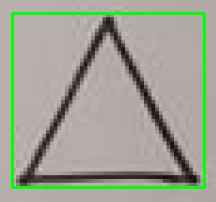
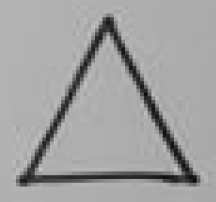
Fixed circle detection

Changed region(s): [[0.0278, 0.0594, 0.9722, 0.9505]]

diff --git a/test/webDetect.py b/test/webDetect.py
@@ -4,9 +4,6 @@ import identifyElement as ie
 
 bInd = 15
 
-#img = cv2.imread('1.jpg')
-#img = cv2.imread('2.jpg')
-img = cv2.imread('web0.jpg')
 
 cntList = []
 
@@ -20,66 +17,80 @@ def insideExistingBox(cnt):
 
 	return False
 
+def main():
+	#img = cv2.imread('1.jpg')
+	#img = cv2.imread('2.jpg')
+	#origImg = cv2.imread('test/web0.jpg')
+	img = cv2.imread('web0.jpg',0)
+	img = imutils.resize(img, width=1400)
+	resImg = cv2.imread('web0.jpg')
+	resImg = imutils.resize(resImg, width=1400)
+	origImg = img.copy()
 
-img = imutils.resize(img, width=1400)
-origImg = img.copy()
+	imgH, imgW = img.shape[0], img.shape[1]
 
-imgH, imgW = img.shape[0], img.shape[1]
+	imgray = img
+	#imgray = cv2.cvtColor(img,cv2.COLOR_BGR2GRAY)
 
-imgray = cv2.cvtColor(img,cv2.COLOR_BGR2GRAY)
+	imgray = cv2.GaussianBlur(imgray,(9,9),0)
+	#imgray = cv2.medianBlur(imgray,3)
 
-imgray = cv2.GaussianBlur(imgray,(9,9),0)
-#imgray = cv2.medianBlur(imgray,3)
+	#ret,thresh = cv2.threshold(imgray,127,255,0)
+	#thresh = cv2.Canny(img,100,300)
+	thresh = cv2.adaptiveThreshold(imgray,255,cv2.ADAPTIVE_THRESH_GAUSSIAN_C,cv2.THRESH_BINARY,11,2)
+	im2, contours, hierarchy = cv2.findContours(thresh,cv2.RETR_TREE,cv2.CHAIN_APPROX_SIMPLE)
 
-#ret,thresh = cv2.threshold(imgray,127,255,0)
-#thresh = cv2.Canny(img,100,300)
-thresh = cv2.adaptiveThreshold(imgray,255,cv2.ADAPTIVE_THRESH_GAUSSIAN_C,cv2.THRESH_BINARY,11,2)
-im2, contours, hierarchy = cv2.findContours(thresh,cv2.RETR_TREE,cv2.CHAIN_APPROX_SIMPLE)
+	contours = sorted(contours, key = cv2.contourArea, reverse = True)[:20]
 
-contours = sorted(contours, key = cv2.contourArea, reverse = True)[:20]
+	elementList = []
+	for cnt in contours:
+		area = cv2.contourArea(cnt)
+		x,y,w,h = cv2.boundingRect(cnt)
+		if area < 100 or (imgH == h and imgW == w):
+			continue
 
+		if insideExistingBox(cnt):
+			continue
 
-for cnt in contours:
-	area = cv2.contourArea(cnt)
-	x,y,w,h = cv2.boundingRect(cnt)
-	if area < 100 or (imgH == h and imgW == w):
-		continue
-
-	if insideExistingBox(cnt):
-		continue
-
-	cntList.append((x,y,w,h))
+		cntList.append((x,y,w,h))
 
 
-	areaDiff = abs(imgW*imgH - (w-x)*(h-y))	
-	
-	if areaDiff > 0.01:
-		cv2.rectangle(img,(x-bInd,y-bInd),(x+w+bInd,y+h+bInd),(0,255,0),2)
-	print ie.getElement(origImg[y-bInd:y+h+bInd, x-bInd:x+w+bInd])
+		areaDiff = abs(imgW*imgH - (w-x)*(h-y))	
+		
+		if areaDiff > 0.01:
+			cv2.rectangle(resImg,(x-bInd,y-bInd),(x+w+bInd,y+h+bInd),(0,255,0),2)
+		element = ie.getElement(origImg[y-bInd:y+h+bInd, x-bInd:x+w+bInd])
+		print element
 
-	pos = None	
-	if h < imgH/4 and y < imgH/4:
-		# Located at the top
-		pos = 'top'
-	elif h > imgH - (imgH/5) and y > imgH - (imgH/5):
-		# Located at the bottom
-		pos = 'bottom'
+		pos = None	
+		if h < imgH/4 and y < imgH/4:
+			# Located at the top
+			pos = 'top'
+		elif h > imgH - (imgH/5) and y > imgH - (imgH/5):
+			# Located at the bottom
+			pos = 'bottom'
 
-	elif x > imgW-(imgW/5):
-		pos = 'right'
-	elif w < imgW/5:
-		pos = 'left'
-	elif w > imgW/5 and w < imgW-(imgW/5):
-		pos = 'center'
+		elif x > imgW-(imgW/5):
+			pos = 'right'
+		elif w < imgW/5:
+			pos = 'left'
+		elif w > imgW/5 and w < imgW-(imgW/5):
+			pos = 'center'
 
-	print 'Located on ' + pos
-	cv2.imshow('test',origImg[y-bInd:y+h+bInd, x-bInd:x+w+bInd])
-	cv2.imwrite('0.png',origImg[y-bInd:y+h+bInd, x-bInd:x+w+bInd])
+		print 'Located on ' + pos
+		cv2.imshow('test',origImg[y-bInd:y+h+bInd, x-bInd:x+w+bInd])
+		cv2.imwrite('0.png',origImg[y-bInd:y+h+bInd, x-bInd:x+w+bInd])
+		cv2.waitKey(0)
+
+		print '\n\n\n\n'
+		elementList.append((element, pos))
+
+	print elementList
+
+	cv2.imshow('s',thresh)
+	cv2.imshow('test',resImg)
 	cv2.waitKey(0)
+	return elementList
 
-	print '\n\n\n\n'
-
-cv2.imshow('s',thresh)
-cv2.imshow('test',img)
-cv2.waitKey(0)
-
+if __name__ == "__main__":
+	main()

diff --git a/webDetect.py b/webDetect.py
@@ -20,13 +20,17 @@ def insideExistingBox(cnt):
 def main():
 	#img = cv2.imread('1.jpg')
 	#img = cv2.imread('2.jpg')
-	img = cv2.imread('test/web0.jpg')
+	#origImg = cv2.imread('test/web0.jpg')
+	img = cv2.imread('test/web0.jpg',0)
 	img = imutils.resize(img, width=1400)
+	resImg = cv2.imread('test/web0.jpg')
+	resImg = imutils.resize(resImg, width=1400)
 	origImg = img.copy()
 
 	imgH, imgW = img.shape[0], img.shape[1]
 
-	imgray = cv2.cvtColor(img,cv2.COLOR_BGR2GRAY)
+	imgray = img
+	#imgray = cv2.cvtColor(img,cv2.COLOR_BGR2GRAY)
 
 	imgray = cv2.GaussianBlur(imgray,(9,9),0)
 	#imgray = cv2.medianBlur(imgray,3)
@@ -54,7 +58,7 @@ def main():
 		areaDiff = abs(imgW*imgH - (w-x)*(h-y))	
 		
 		if areaDiff > 0.01:
-			cv2.rectangle(img,(x-bInd,y-bInd),(x+w+bInd,y+h+bInd),(0,255,0),2)
+			cv2.rectangle(resImg,(x-bInd,y-bInd),(x+w+bInd,y+h+bInd),(0,255,0),2)
 		element = ie.getElement(origImg[y-bInd:y+h+bInd, x-bInd:x+w+bInd])
 		print element
 
@@ -84,7 +88,7 @@ def main():
 	print elementList
 
 	cv2.imshow('s',thresh)
-	cv2.imshow('test',img)
+	cv2.imshow('test',resImg)
 	cv2.waitKey(0)
 	return elementList
 

diff --git a/identifyElement.py b/identifyElement.py
@@ -6,13 +6,12 @@ minSize = 500
 def isCircle(img):
 	#cv2.imshow('s',img)
 	#cv2.waitKey(0)
-	try:
-		circles = cv2.HoughCircles(img,cv2.HOUGH_GRADIENT,1,20,param1=50,param2=30,minRadius=0,maxRadius=0)
-	except:
-		return False
-	if len(circles) > 0:
+	#img = cv2.cvtColor(img,cv2.COLOR_GRAY2BGR)	
+	img = cv2.medianBlur(img,5)	
+	circles = cv2.HoughCircles(img,cv2.HOUGH_GRADIENT,1,20,param1=70,param2=50,minRadius=50,maxRadius=300)
+	if circles is not None:
 		return True
-	circles = np.uint16(np.around(circles))
+	
 	return False
 
 def countLines(edges, img):
@@ -51,7 +50,7 @@ def countLines(edges, img):
 
 
 def getElement(img):
-	imgray = cv2.cvtColor(img,cv2.COLOR_BGR2GRAY)
+	imgray = img
 	# Apply edge detection method on the image 
 	edges = cv2.Canny(imgray,50,150,apertureSize = 3)
 	
@@ -98,7 +97,7 @@ def getElement(img):
 		hullArea = cv2.contourArea(hull)
 		solidity = area/float(hullArea)
 
-		cv2.rectangle(img,(x,y),(x+w,y+h),(0,255,0),2)
+		#cv2.rectangle(img,(x,y),(x+w,y+h),(0,255,0),2)
 		'''	
 		print 'area: ', area
 		print 'aspect ratio: ', aspectRatio

diff --git a/test/identifyElement.py b/test/identifyElement.py
@@ -6,13 +6,12 @@ minSize = 500
 def isCircle(img):
 	#cv2.imshow('s',img)
 	#cv2.waitKey(0)
-	try:
-		circles = cv2.HoughCircles(img,cv2.HOUGH_GRADIENT,1,20,param1=50,param2=30,minRadius=0,maxRadius=0)
-	except:
-		return False
-	if len(circles) > 0:
+	#img = cv2.cvtColor(img,cv2.COLOR_GRAY2BGR)	
+	img = cv2.medianBlur(img,5)	
+	circles = cv2.HoughCircles(img,cv2.HOUGH_GRADIENT,1,20,param1=70,param2=50,minRadius=50,maxRadius=300)
+	if circles is not None:
 		return True
-	circles = np.uint16(np.around(circles))
+	
 	return False
 
 def countLines(edges, img):
@@ -51,7 +50,7 @@ def countLines(edges, img):
 
 
 def getElement(img):
-	imgray = cv2.cvtColor(img,cv2.COLOR_BGR2GRAY)
+	imgray = img
 	# Apply edge detection method on the image 
 	edges = cv2.Canny(imgray,50,150,apertureSize = 3)
 	
@@ -98,7 +97,7 @@ def getElement(img):
 		hullArea = cv2.contourArea(hull)
 		solidity = area/float(hullArea)
 
-		cv2.rectangle(img,(x,y),(x+w,y+h),(0,255,0),2)
+		#cv2.rectangle(img,(x,y),(x+w,y+h),(0,255,0),2)
 		'''	
 		print 'area: ', area
 		print 'aspect ratio: ', aspectRatio

diff --git a/test/houghCircles.py b/test/houghCircles.py
@@ -1,12 +1,18 @@
 import numpy as np
 import cv2 as cv
 #img = cv.imread('shapes/circle.png',0)
-img = cv.imread('shapes/tri1.png',0)
+img = cv.imread('shapes/circle1.png',0)
+#img = cv.imread('shapes/tri1.png',0)
 #img = cv.imread('shapes/1.jpg',0)
+#img = cv.imread('shapes/i.png')
 img = cv.medianBlur(img,5)
-cimg = cv.cvtColor(img,cv.COLOR_GRAY2BGR)
-circles = cv.HoughCircles(img,cv.HOUGH_GRADIENT,1,20,
-                            param1=50,param2=30,minRadius=0,maxRadius=0)
+img = cv.cvtColor(img,cv.COLOR_BGR2GRAY)
+#circles = cv.HoughCircles(img,cv.HOUGH_GRADIENT,1,20,param1=200,param2=70,minRadius=50,maxRadius=300)
+circles = cv.HoughCircles(img,cv.HOUGH_GRADIENT,1,20,param1=70,param2=50,minRadius=50,maxRadius=300)
+if circles is None:
+	print 'No circles detected'
+	exit()
+
 circles = np.uint16(np.around(circles))
 for i in circles[0,:]:
     # draw the outer circle
